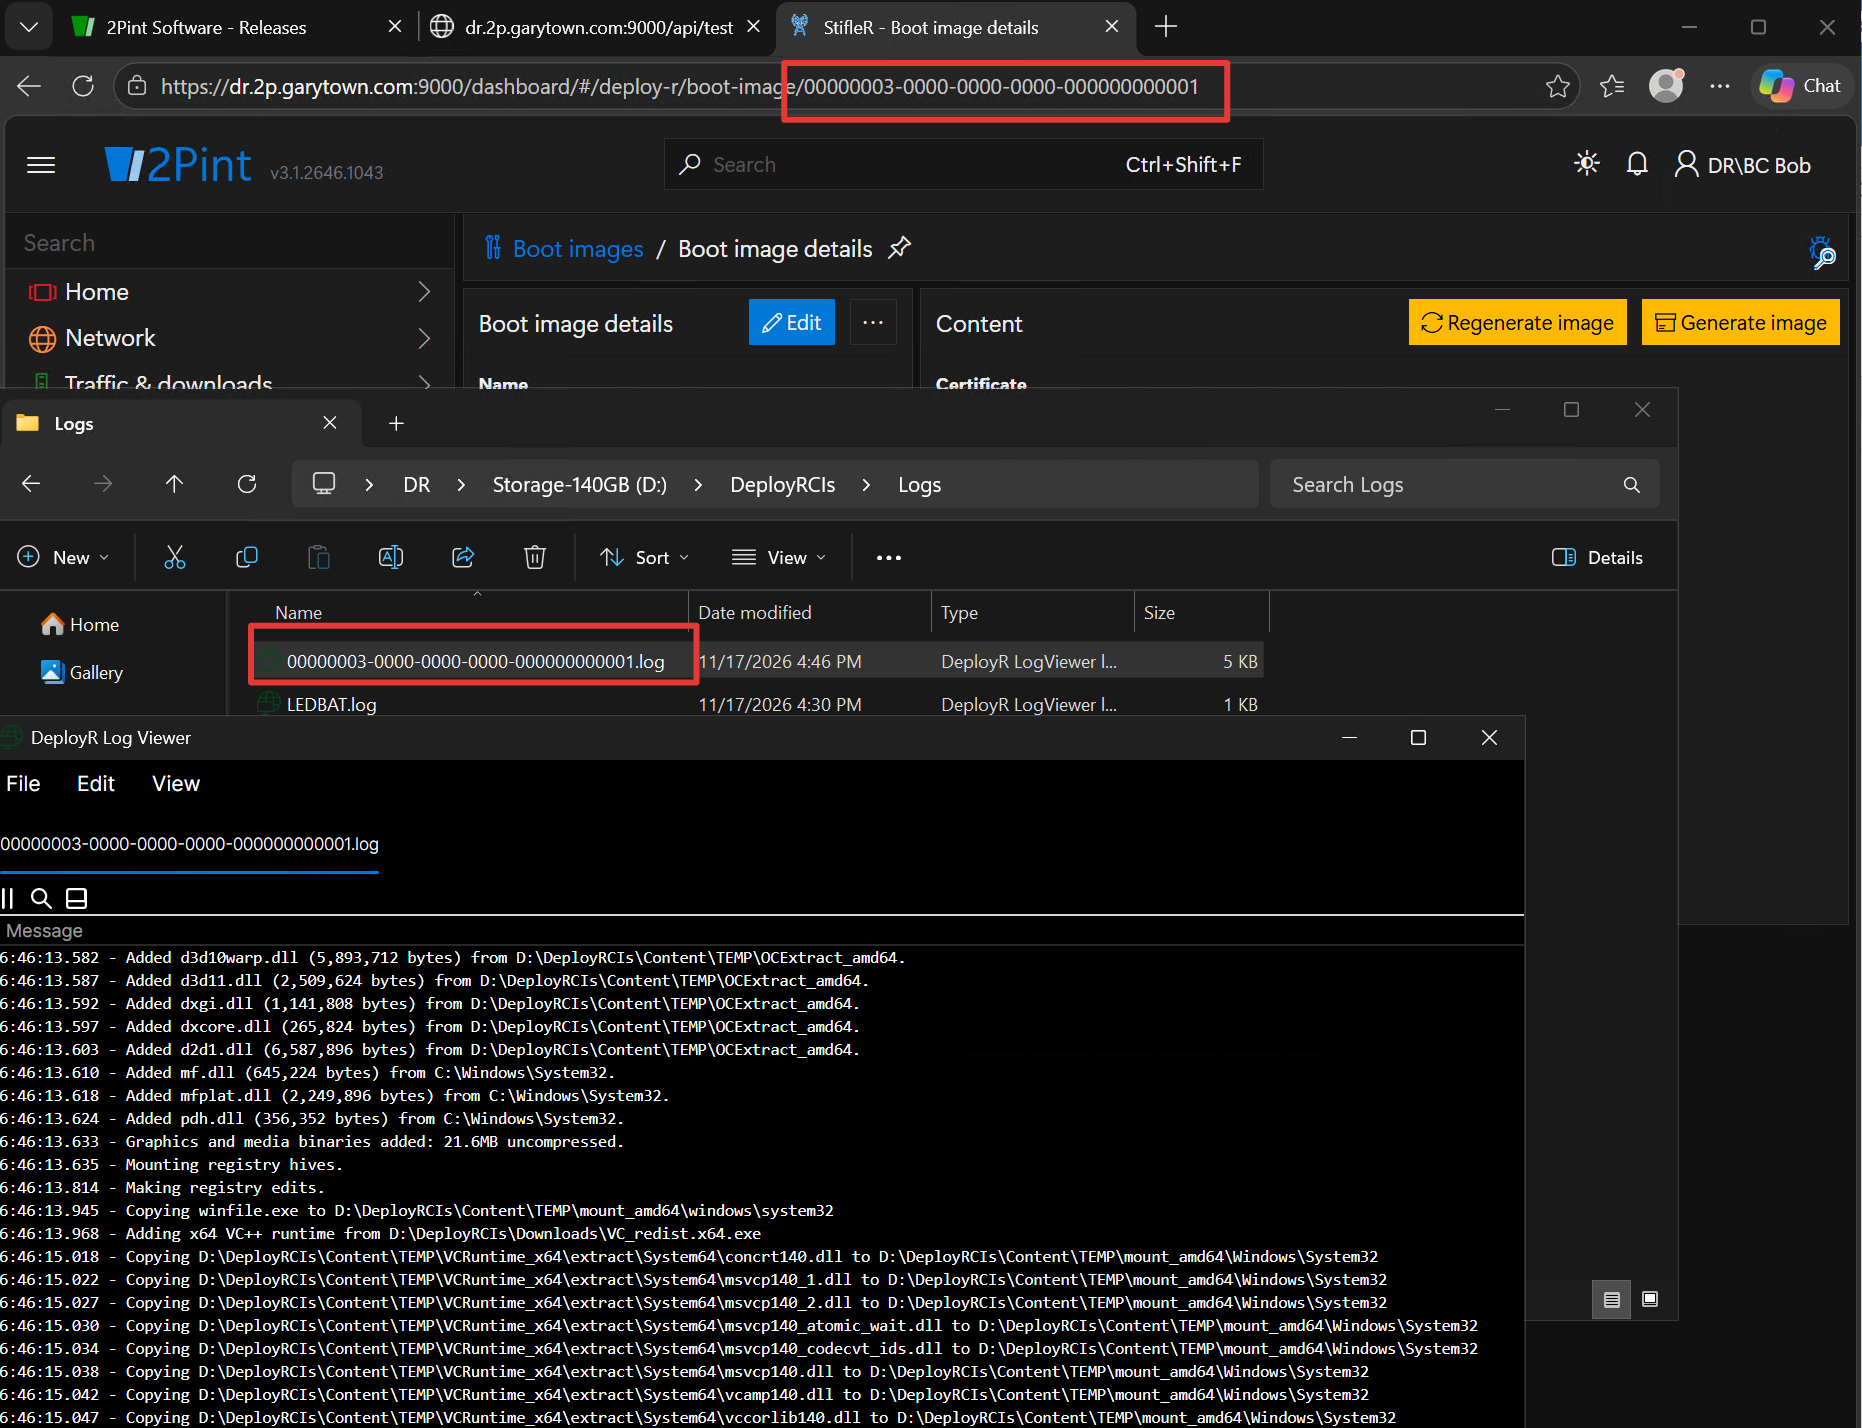
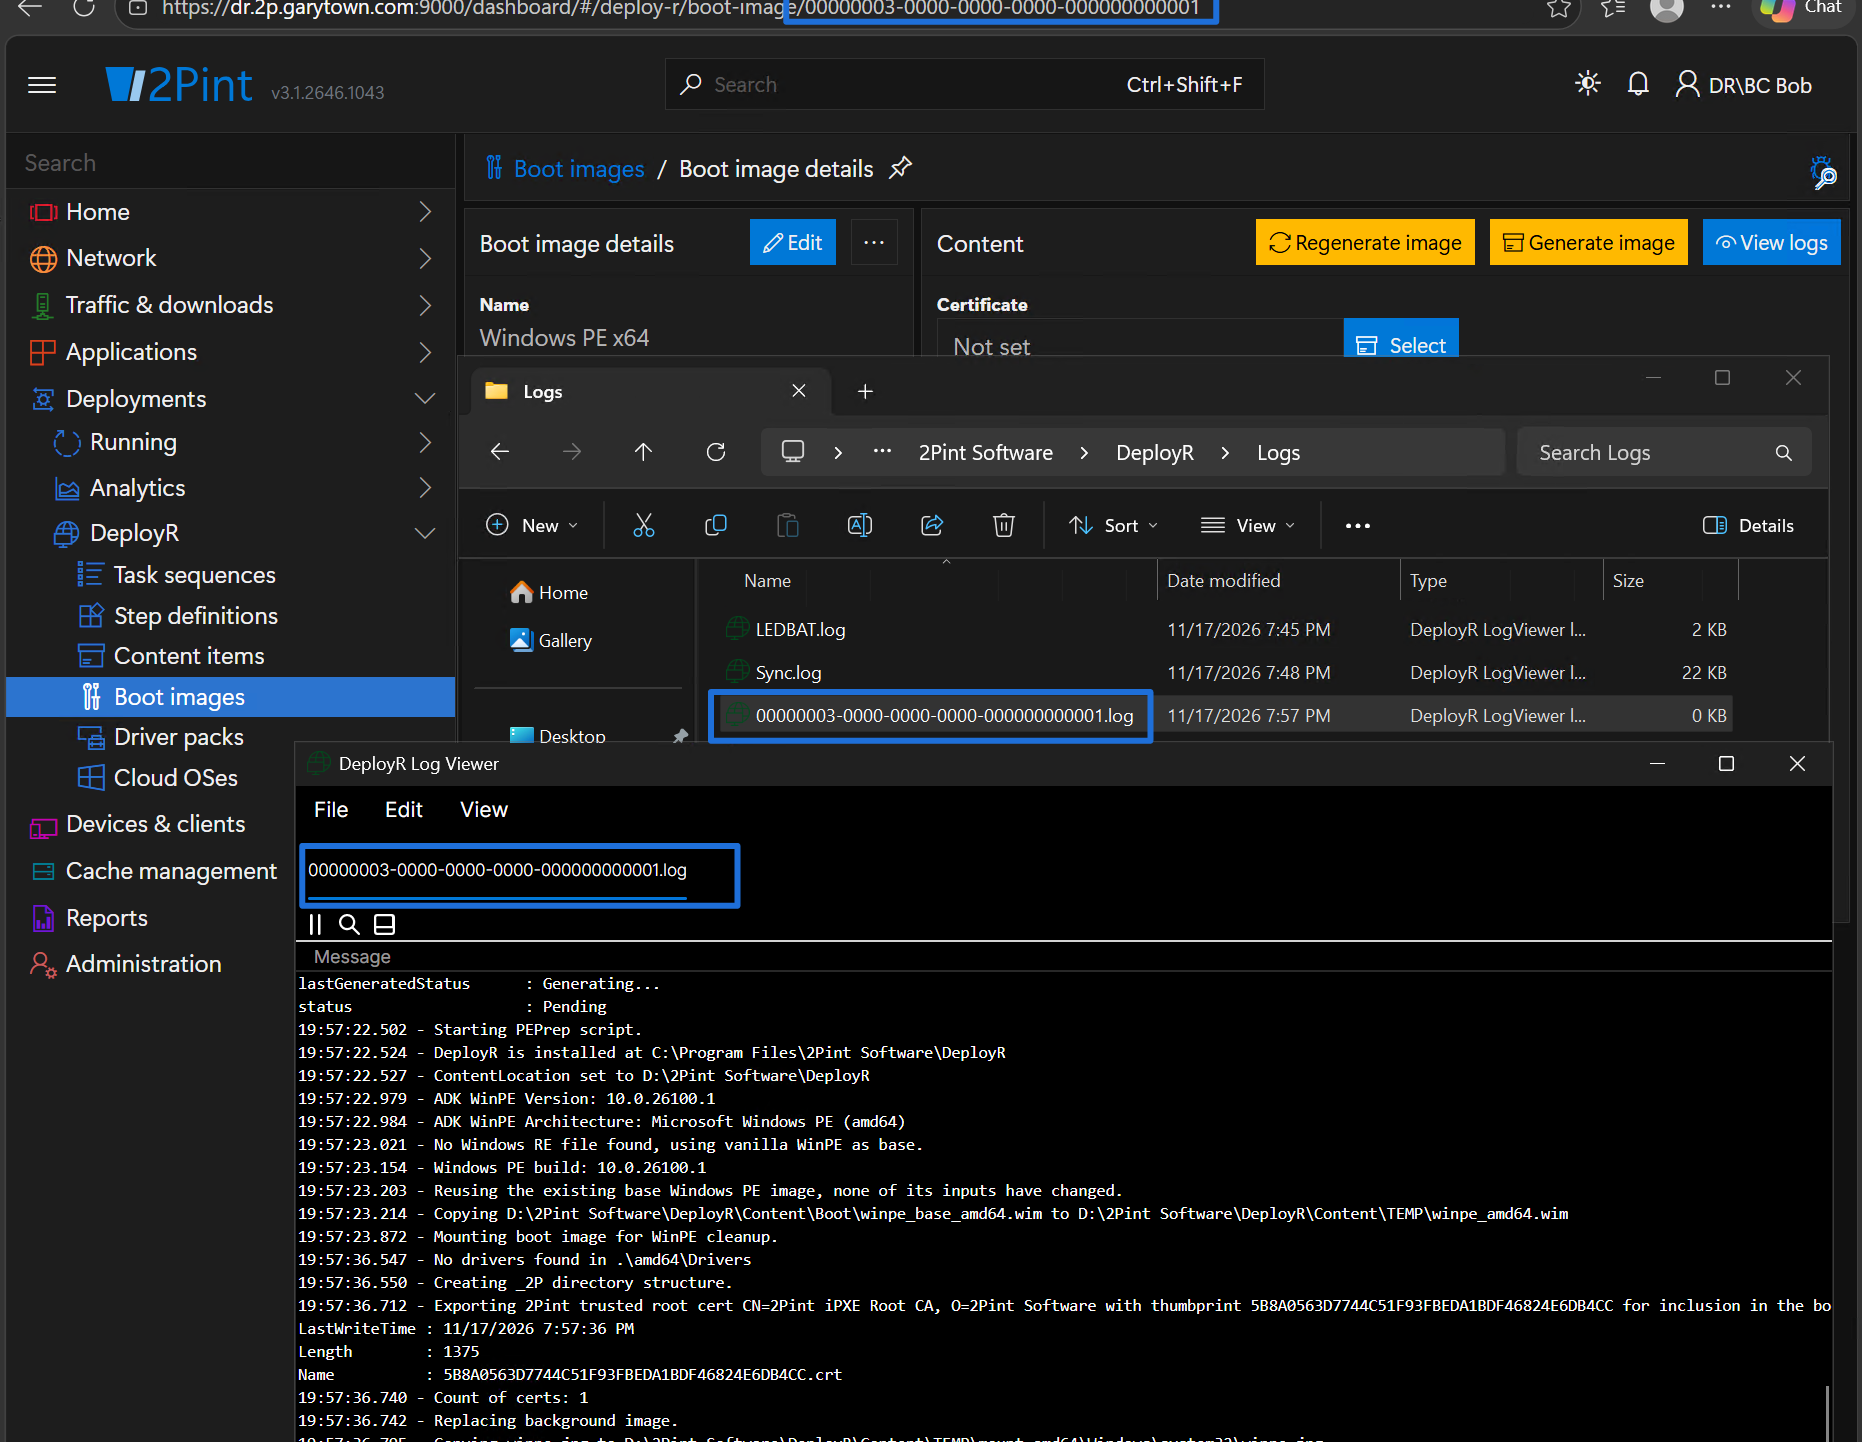
Done

diff --git a/DeployR/SetupWalkThrough/readme.md b/DeployR/SetupWalkThrough/readme.md
@@ -16,6 +16,8 @@ Here is my test machine and network setup for this walkthrough.
 | Data drive | `D:` 140 GB |
 | IP Address | `192.168.6.187` |
 
+Network Notes, this is a dedicated VLAN for this lab, it does not get any DHCP / IP Helpers for PXE booting.  Machines will automatically repsond to PXE on it's own subnet once 2PXE is installed.
+
 These are bare-bones lab specifications, not production recommendations. Allocate more memory and storage for a larger or production deployment.
 
 The server is named `DR` and remains in a workgroup. DNS should resolve `DR.2P.GARYTOWN.COM` to the server's address. So please note, where ever you see `DR.2P.GARYTOWN.COM` in the configuration or installs below, update to your FQDN of the server you're setting up.  ProTip, sometimes adding your FQDN into your local host file on the server helps resolves some DNS issues. 
@@ -192,6 +194,8 @@ The following installation screenshots are shown in order. Select an image to op
 | **Update the host in both URLs to match your server FQDN.** | [![StifleR Dashboard URL configuration](media/Dashboard04.png)](media/Dashboard04.png) | **Use HTTPS for both URLs.** |
 | [![StifleR Dashboard setup screenshot 5](media/Dashboard05.png)](media/Dashboard05.png) | [![StifleR Dashboard setup screenshot 6](media/Dashboard06.png)](media/Dashboard06.png) | [![StifleR Dashboard setup screenshot 7](media/Dashboard07.png)](media/Dashboard07.png) |
 
+**After you complete the Dashboard install, restart the StifleR Server Service to have it register the Dashboard.**
+
 The StifleR Dashboard installer has no separate configuration editor. During installation, enter these two StifleR Server URLs:
 
 - **SignalR:** `https://DR.2p.garytown.com:1414`
@@ -226,7 +230,7 @@ The following configuration screenshots are shown in order. Select an image to o
 ### Configured DeployR Settings
 
 - **Certificate:** Store location is `LocalMachine`, store name is `My`, and certificate lookup uses `CertificateSubjectName` with subject `dr.2p.garytown.com`.
-- **Database and content:** Database connection method is `SQLite`; the DeployR content path is `D:\DeployRCIs`.
+- **Database and content:** Database connection method is `SQLite`; the DeployR content path is `D:\2Pint Software\DeployR`.
 - **Client URL:** `https://dr.2p.garytown.com:7281`.
 - **StifleR integration:** StifleR Server API URL is `https://dr.2p.garytown.com:9000`.
 - **Security:** Bypass authentication, bypass local authentication, and Windows authentication are disabled; the Windows group is `Administrators`.
@@ -250,7 +254,7 @@ The next step is to Generate a simple Boot image to text PXE, from the Dashboard
 
 [![DeployR Content Path](media/BootMediaGen.png)](media/BootMediaGen.png)
 
-The process can be monitored via the log:
+The process can be monitored via the log, the name of the log will match the GUID of the content item for the boot media:
 
 [![DeployR Content Path](media/BootMediaGenLog.png)](media/BootMediaGenLog6..png)
 
@@ -258,9 +262,45 @@ The process can be monitored via the log:
 
 For a clean setup, I like to run these scripts:
 
-- [Set up the DeployR folder structure](https://github.com/2pintsoftware/2Pint-DeployR/blob/main/Installs/2PintSoftware/Setup-DeployRFolderStructure.ps1) to create folders for source files.
+- [Set up the DeployR folder structure](https://github.com/2pintsoftware/2Pint-DeployR/blob/main/Installs/2PintSoftware/Setup-DeployRFolderStructure.ps1) to create folders for source files.  Helps to stay organized on where the content is kept for if the content items need to be modified or updated.
+[![DeployR Source Repo](media/SourceRepo.png)](media/SourceRepo..png)
 - [Generate application content items](https://github.com/2pintsoftware/2Pint-DeployR/blob/main/Automation/Generate-AppContentItems.ps1) to pre-populate application content.
 
+## 2PXE Testing
+
+Now that everything is installed, does it work.
+
+PXE boot test screenshots. Select an image to open it at full size.
+
+| | |
+| --- | --- |
+| [![PXE boot test screenshot 00](media/PXEBoot00.png)](media/PXEBoot00.png) | [![PXE boot test screenshot 01](media/PXEBoot01.png)](media/PXEBoot01.png) |
+| [![PXE boot test screenshot 02](media/PXEBoot02.png)](media/PXEBoot02.png) | [![PXE boot test screenshot 03](media/PXEBoot03.png)](media/PXEBoot03.png) |
+| [![PXE boot test screenshot 04](media/PXEBoot04.png)](media/PXEBoot04.png) | [![PXE boot test screenshot 05](media/PXEBoot05.png)](media/PXEBoot05.png) |
+| [![PXE boot test screenshot 06](media/PXEBoot06.png)](media/PXEBoot06.png) | [![PXE boot test screenshot 07](media/PXEBoot07.png)](media/PXEBoot07.png) |
+
+## Now What?
+
+The server is setup, time to create task sequences, customize iPXE, do the fun things.  Recommendations:
+
+- For more guides and demos, visit the [2Pint Software YouTube channel](https://www.youtube.com/@2PintSoftware/videos).
+
+### Getting started and installation
+
+- [Getting started with DeployR: all you need to know](https://www.youtube.com/watch?v=3_AOYJJ3mwk)
+- [DeployR getting started guide](https://www.youtube.com/watch?v=M1rv_KcgsFI)
+
+### Building and managing content
+
+- [DeployR: Creating your own content items](https://www.youtube.com/watch?v=HUEHAZgzBZQ)
+- [Scripting DeployR and content items](https://www.youtube.com/watch?v=b6yrmHrdXzU)
+- [Advanced step definitions in DeployR](https://www.youtube.com/watch?v=QjfYwQeaSyE)
+- [Deployment scenarios and DeployR](https://www.youtube.com/watch?v=fQcXq_mkDnc)
+- [Drivers and DeployR](https://www.youtube.com/watch?v=a2ObydIBzfY)
+
+### Troubleshooting and updates
+
+- [Troubleshooting OSD with DeployR](https://www.youtube.com/watch?v=x2-nYv7oQVQ)
 
 
 ## Troubleshooting Pointers
